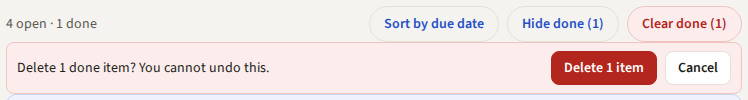
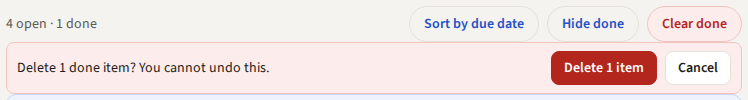
feat: the toolbar shows the number of done items only once
The counter "4 open · 1 done" keeps the number. The buttons say "Hide done",
"Show done" and "Clear done" without it. The question of "Clear done" still
shows the number (canvas page "3 · Done hidden", option A).

Changed region(s): [[0.492, 0.18, 0.984, 0.3], [0.8302, 0.39, 0.8917, 0.42], [0.8302, 0.06, 0.8917, 0.09]]

diff --git a/internal/web/templates/list.html b/internal/web/templates/list.html
@@ -12,13 +12,16 @@
 {{define "toolbar"}}<div id="toolbar" class="toolbar"{{if .OOB}} hx-swap-oob="true"{{end}} data-hide-done="{{.HideDone}}" data-sort-due="{{.SortDue}}"{{if .NextOverdue}} data-next-overdue="{{.NextOverdue}}"{{end}}>
 <div class="toolbar-left"><span class="counter">{{.Open}} open · {{.Done}} done</span>{{with .Filter}}
 <span class="active-filter">Label: <span class="chip" data-color="{{.Color}}" data-label="{{.ID}}">{{.Name}}</span><a class="clear-filter" href="/" aria-label="Show all labels" title="Show all labels">{{template "x-icon"}}</a></span>{{end}}</div>
+{{/* The number of done items shows once, in the counter: the buttons have no
+     number (canvas page "3 · Done hidden", board "the number of done items
+     only once", option A). */}}
 {{/* The order of the list (canvas page "14 · Overdue at the top", board
      "sort the list by due date", option A): the text tells what a click
      does, as with "Hide done"; no highlight. */}}
 <div class="toolbar-right"><button class="filter sort-due" type="button"
   hx-post="/settings/sort-due" {{if .SortDue}}hx-vals='{"sort_due":"0"}'{{else}}hx-vals='{"sort_due":"1"}'{{end}} hx-target="#list-section" hx-swap="outerHTML">{{if .SortDue}}Sort by hand{{else}}Sort by due date{{end}}</button><button class="filter" type="button" aria-pressed="{{.HideDone}}"
-  hx-post="/settings/hide-done" {{if .HideDone}}hx-vals='{"hide_done":"0"}'{{else}}hx-vals='{"hide_done":"1"}'{{end}} hx-target="#list-section" hx-swap="outerHTML">{{if .HideDone}}Show done ({{.Done}}){{else}}Hide done ({{.Done}}){{end}}</button>{{if .Done}}
-<button class="filter clear-done" type="button" aria-controls="clear-confirm" aria-expanded="{{.Ask}}" hx-get="/items/done/clear" hx-target="#clear-confirm">Clear done ({{.Done}})</button>{{end}}</div>
+  hx-post="/settings/hide-done" {{if .HideDone}}hx-vals='{"hide_done":"0"}'{{else}}hx-vals='{"hide_done":"1"}'{{end}} hx-target="#list-section" hx-swap="outerHTML">{{if .HideDone}}Show done{{else}}Hide done{{end}}</button>{{if .Done}}
+<button class="filter clear-done" type="button" aria-controls="clear-confirm" aria-expanded="{{.Ask}}" hx-get="/items/done/clear" hx-target="#clear-confirm">Clear done</button>{{end}}</div>
 </div>{{end}}
 
 {{/* The question of "Clear done" (canvas page "3 · Done hidden"). The slot

diff --git a/internal/web/hide_done_test.go b/internal/web/hide_done_test.go
@@ -25,11 +25,11 @@ func TestHideDoneIsSavedPerUser(t *testing.T) {
 	if rec.Code != http.StatusOK {
 		t.Fatalf("save: %d", rec.Code)
 	}
-	assertContains(t, rec.Body.String(), `id="list-section"`, "Show done (1)", `hx-vals='{"hide_done":"0"}'`)
+	assertContains(t, rec.Body.String(), `id="list-section"`, "Show done", `hx-vals='{"hide_done":"0"}'`)
 	assertNotContains(t, rec.Body.String(), "Call the dentist")
 
 	body := do(t, env.H, "GET", "/", nil, nil).Body.String() // no query
-	assertContains(t, body, "Buy milk", "Show done (1)", `aria-pressed="true"`)
+	assertContains(t, body, "Buy milk", "Show done", `aria-pressed="true"`)
 	assertNotContains(t, body, "Call the dentist")
 
 	other, _, err := env.Auth.StartSession(ctx, env.User.ID, false) // another device
@@ -40,17 +40,17 @@ func TestHideDoneIsSavedPerUser(t *testing.T) {
 	if rec.Code != http.StatusOK {
 		t.Fatalf("second session: %d, want 200", rec.Code)
 	}
-	assertContains(t, rec.Body.String(), "Buy milk", "Show done (1)")
+	assertContains(t, rec.Body.String(), "Buy milk", "Show done")
 	assertNotContains(t, rec.Body.String(), "Call the dentist")
 
 	bob, _ := env.Auth.SignUp(ctx, "bob", pw)
 	bobToken, _, _ := env.Auth.LogIn(ctx, "bob", pw, false)
 	done, _ := env.Svc.Add(ctx, bob.ID, "Bobs done item", "", "")
 	env.Svc.Toggle(ctx, bob.ID, done.ID)
-	assertContains(t, do(t, env.H, "GET", "/", nil, cookie(bobToken)).Body.String(), "Bobs done item", "Hide done (1)")
+	assertContains(t, do(t, env.H, "GET", "/", nil, cookie(bobToken)).Body.String(), "Bobs done item", "Hide done")
 
 	rec = do(t, env.H, "POST", "/settings/hide-done", url.Values{"hide_done": {"0"}}, htmxHeaders)
-	assertContains(t, rec.Body.String(), "Call the dentist", "Hide done (1)", `hx-vals='{"hide_done":"1"}'`)
+	assertContains(t, rec.Body.String(), "Call the dentist", "Hide done", `hx-vals='{"hide_done":"1"}'`)
 }
 
 func TestHideDoneWithoutHTMXRedirects(t *testing.T) {
@@ -133,4 +133,23 @@ func TestAppJSReloadsListWhenHideStateDiffers(t *testing.T) {
 	if got := strings.TrimSpace(string(out)); got != want {
 		t.Fatalf("got\n%s\nwant\n%s", got, want)
 	}
+}
+
+// The toolbar shows the number of done items once, in the counter. The buttons
+// have no number (canvas page "3 · Done hidden", board "the number of done
+// items only once", option A).
+func TestDoneCountOnlyInCounter(t *testing.T) {
+	env := newTestEnv(t)
+	ctx := context.Background()
+	mustAdd(t, env.Svc, "Buy milk")
+	b := mustAdd(t, env.Svc, "Call the dentist")
+	env.Svc.Toggle(ctx, env.User.ID, b.ID)
+
+	body := do(t, env.H, "GET", "/", nil, nil).Body.String()
+	assertContains(t, body, "1 open · 1 done", ">Hide done</button>", ">Clear done</button>")
+	assertNotContains(t, body, "Hide done (", "Clear done (")
+
+	rec := do(t, env.H, "POST", "/settings/hide-done", url.Values{"hide_done": {"1"}}, htmxHeaders)
+	assertContains(t, rec.Body.String(), "1 open · 1 done", ">Show done</button>", ">Clear done</button>")
+	assertNotContains(t, rec.Body.String(), "Show done (", "Clear done (")
 }

diff --git a/internal/web/index_test.go b/internal/web/index_test.go
@@ -16,7 +16,7 @@ func TestIndexEmpty(t *testing.T) {
 	}
 	assertContains(t, rec.Body.String(),
 		"<!doctype html>", `id="add-form"`, "What needs to be done?",
-		"0 open · 0 done", "Hide done (0)", "No items yet", "Type a task above and press Enter.",
+		"0 open · 0 done", "Hide done", "No items yet", "Type a task above and press Enter.",
 		`/static/htmx.min.js`, `name="htmx-config"`)
 }
 
@@ -28,7 +28,7 @@ func TestIndexListsItemsInOrder(t *testing.T) {
 
 	body := do(t, h, "GET", "/", nil, nil).Body.String()
 	assertContains(t, body, `id="item-1"`, `id="item-2" class="item done"`,
-		"1 open · 1 done", "Hide done (1)")
+		"1 open · 1 done", "Hide done")
 	assertNotContains(t, body, "No items yet")
 	if i1, i2 := strings.Index(body, "Buy milk"), strings.Index(body, "Call the dentist"); i1 > i2 {
 		t.Fatalf("items out of order: Buy milk at %d, Call the dentist at %d", i1, i2)
@@ -43,7 +43,7 @@ func TestIndexHideDone(t *testing.T) {
 	env.Auth.SetHideDone(context.Background(), env.User.ID, true)
 
 	body := do(t, env.H, "GET", "/", nil, nil).Body.String()
-	assertContains(t, body, "Buy milk", "Show done (1)", `aria-pressed="true"`,
+	assertContains(t, body, "Buy milk", "Show done", `aria-pressed="true"`,
 		`hx-post="/settings/hide-done"`, `hx-vals='{"hide_done":"0"}'`)
 	assertNotContains(t, body, "Call the dentist")
 }

diff --git a/internal/web/clear_done_test.go b/internal/web/clear_done_test.go
@@ -9,7 +9,7 @@ import (
 	"testing"
 )
 
-// "Clear done (N)" shows next to "Hide done (N)" only when there is a done
+// "Clear done" shows next to "Hide done" only when there is a done
 // item (canvas page 3, "Clear done – ask first").
 func TestClearDoneButtonShowsOnlyWithDoneItems(t *testing.T) {
 	env := newTestEnv(t)
@@ -20,7 +20,7 @@ func TestClearDoneButtonShowsOnlyWithDoneItems(t *testing.T) {
 	env.Svc.Toggle(context.Background(), 1, a.ID)
 	body = do(t, env.H, "GET", "/", nil, nil).Body.String()
 	assertContains(t, body,
-		`<button class="filter clear-done" type="button" aria-controls="clear-confirm" aria-expanded="false" hx-get="/items/done/clear" hx-target="#clear-confirm">Clear done (1)</button>`)
+		`<button class="filter clear-done" type="button" aria-controls="clear-confirm" aria-expanded="false" hx-get="/items/done/clear" hx-target="#clear-confirm">Clear done</button>`)
 }
 
 // The button asks first; the question names the count, and the label when

diff --git a/internal/web/toggle_delete_test.go b/internal/web/toggle_delete_test.go
@@ -19,7 +19,7 @@ func TestToggleMarksDone(t *testing.T) {
 	}
 	assertContains(t, rec.Body.String(),
 		`<li id="item-1" class="item done">`, "Mark not done: Buy milk",
-		"0 open · 1 done", "Hide done (1)", `hx-swap-oob="true"`)
+		"0 open · 1 done", "Hide done", `hx-swap-oob="true"`)
 }
 
 func TestToggleTwiceMarksNotDone(t *testing.T) {
@@ -40,7 +40,7 @@ func TestToggleInHideModeRemovesRow(t *testing.T) {
 	}
 	body := rec.Body.String()
 	assertNotContains(t, body, `<li id="item-1"`)
-	assertContains(t, body, "Show done (1)", "All done")
+	assertContains(t, body, "Show done", "All done")
 }
 
 func TestToggleUnknownItem(t *testing.T) {

diff --git a/docs/user-guide.md b/docs/user-guide.md
@@ -86,8 +86,7 @@ add field.
 ### Done items
 
 Above the list, the app shows how many items are open and how many are done, for example
-"4 open · 1 done". The buttons for done items also show the number of done items, for example
-**Hide done (1)**.
+"4 open · 1 done".
 
 - **Hide done** hides the done items. **Show done** shows them again. The app remembers your
   choice.
